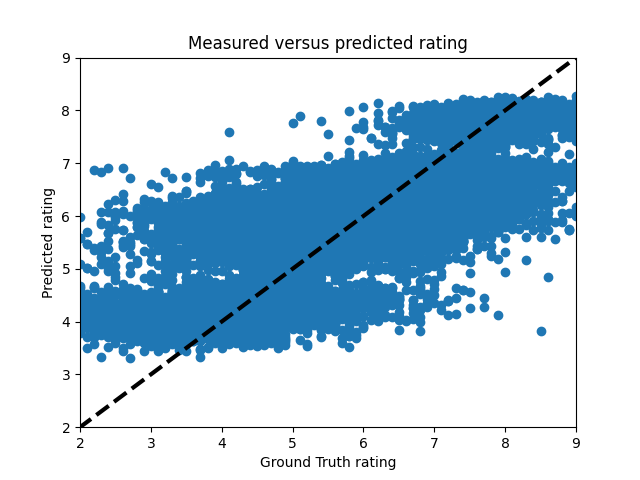
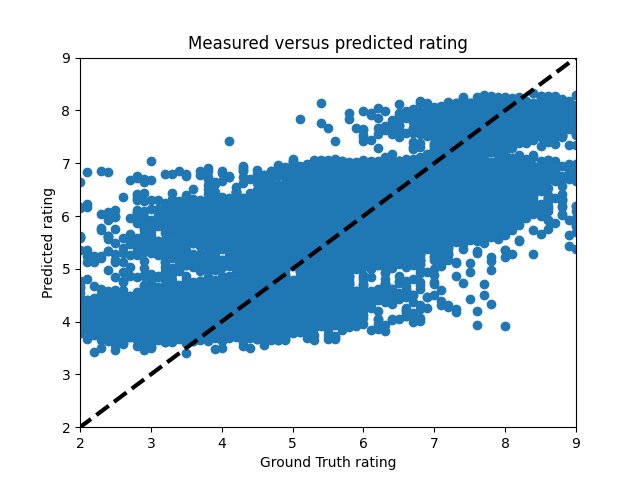
merge with master

diff --git a/scripts/pred_model.py b/scripts/pred_model.py
@@ -16,6 +16,7 @@ from sklearn.ensemble import AdaBoostRegressor
 from sklearn.ensemble import VotingRegressor
 import math
 import pickle
+import query_database as qd
 SAVE_MODEL = True
 
 def plot_pred_valid(name, y_valid, y_pred):
@@ -35,11 +36,11 @@ def define_models():
     reg_model = LinearRegression()
     xgb_model = XGBRegressor(colsample_bytree= 0.6, gamma= 0.7, max_depth= 4, objective='reg:squarederror')
     ada = AdaBoostRegressor(random_state=0, n_estimators=100)
-    # rf = make_pipeline(
-    #     MinMaxScaler(),
-    #     RandomForestRegressor(bootstrap=True, max_features=0.15000000000000002, min_samples_leaf=6, min_samples_split=16, n_estimators=100)
-    # )
-    rf = RandomForestRegressor(bootstrap=True, max_features=0.15000000000000002, min_samples_leaf=6, min_samples_split=16, n_estimators=100)
+    rf = make_pipeline(
+        MinMaxScaler(),
+        RandomForestRegressor(bootstrap=True, max_features=0.15000000000000002, min_samples_leaf=6, min_samples_split=16, n_estimators=100)
+    )
+    # rf = RandomForestRegressor(bootstrap=True, max_features=0.15000000000000002, min_samples_leaf=6, min_samples_split=16, n_estimators=100)
     # svr = SVR(C=1.0, epsilon=0.2)
     er = VotingRegressor([('rf', rf),('xgb_model', xgb_model)])
 
@@ -83,7 +84,11 @@ if __name__ == '__main__':
         print_statistics(y_valid, y_pred)
         plot_pred_valid(models_names[i], y_valid, y_pred)
     
-    plotFeaturesRanking(models[3],X_train.columns.tolist())
+    # plotFeaturesRanking(models[3],X_train.columns.tolist())
     if SAVE_MODEL:
         filename = 'random_forest_model.pkl'
         pickle.dump(models[3], open(filename, 'wb'))
+        dbfile = open(filename, 'rb')
+        model = pickle.load(dbfile)
+        p_model = pickle.dumps(model)
+        qd.store_model(p_model, 'rating', "Random Forest v2")
